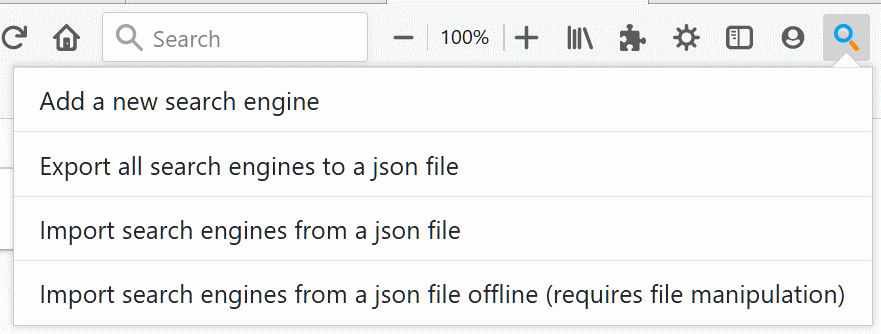
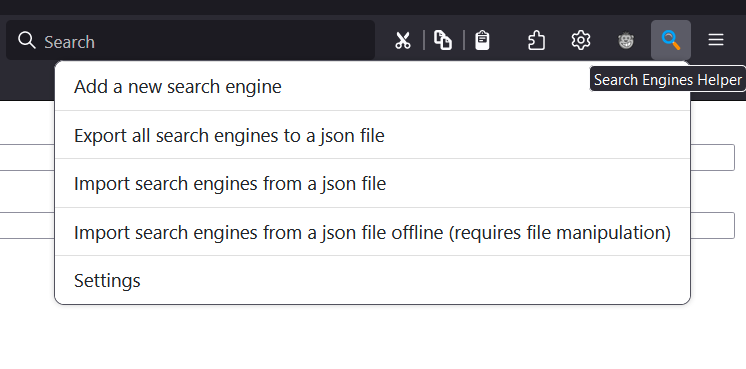
[3.3.0] #23, #25

diff --git a/README.md b/README.md
@@ -15,16 +15,9 @@ The search engine icon will be rendered to be sure that the url is valid.
 
 When the inputs are ready, press the "Add search engine" button.
 
-On Firefox 78 or later, a page will be opened with the search engine available to install from the search bar menu or the page actions menu (detailed instructions are displayed on the same page).
+A page will be opened with the search engine available to install from the search bar menu or the page actions menu (detailed instructions are displayed on the same page).
 
-On Firefox 89 or later (redesign) right-click in the URL bar to show the page actions:
-![page actions](https://user-images.githubusercontent.com/169885/121367278-78fc0300-c93a-11eb-998a-15a0f78eafb9.png)
-
-![menu](https://raw.githubusercontent.com/soufianesakhi/firefox-search-engines-helper/master/web-ext/images/Add%20from%20page%20actions%20menu.png)
-
-On Firefox 77 and earlier, a confirmation window will be displayed to add the search engine.
-
-![add-search-engine-confirmation](https://raw.githubusercontent.com/soufianesakhi/firefox-search-engines-helper/master/screenshots/add-search-engine-confirmation.PNG)
+![add-search-engine](https://raw.githubusercontent.com/soufianesakhi/firefox-search-engines-helper/master/web-ext/images/Add%20search.png)
 
 After the confirmation, the search engine will be available for use.
 
@@ -60,3 +53,11 @@ Only search engines with names that are not already added to the current firefox
 
 ## Import search engines from a json file offline (requires file manipulation)
 ![import-search-engines](https://raw.githubusercontent.com/soufianesakhi/firefox-search-engines-helper/master/screenshots/import-offline.PNG)
+
+## Settings
+
+From settings page, you can:
+- Change the default favicon url that will be auto-filled after the search url input is entered
+- Optionally display an input that can be used to test the search url with the provided search terms
+
+![settings](https://raw.githubusercontent.com/soufianesakhi/firefox-search-engines-helper/master/screenshots/settings.PNG)
